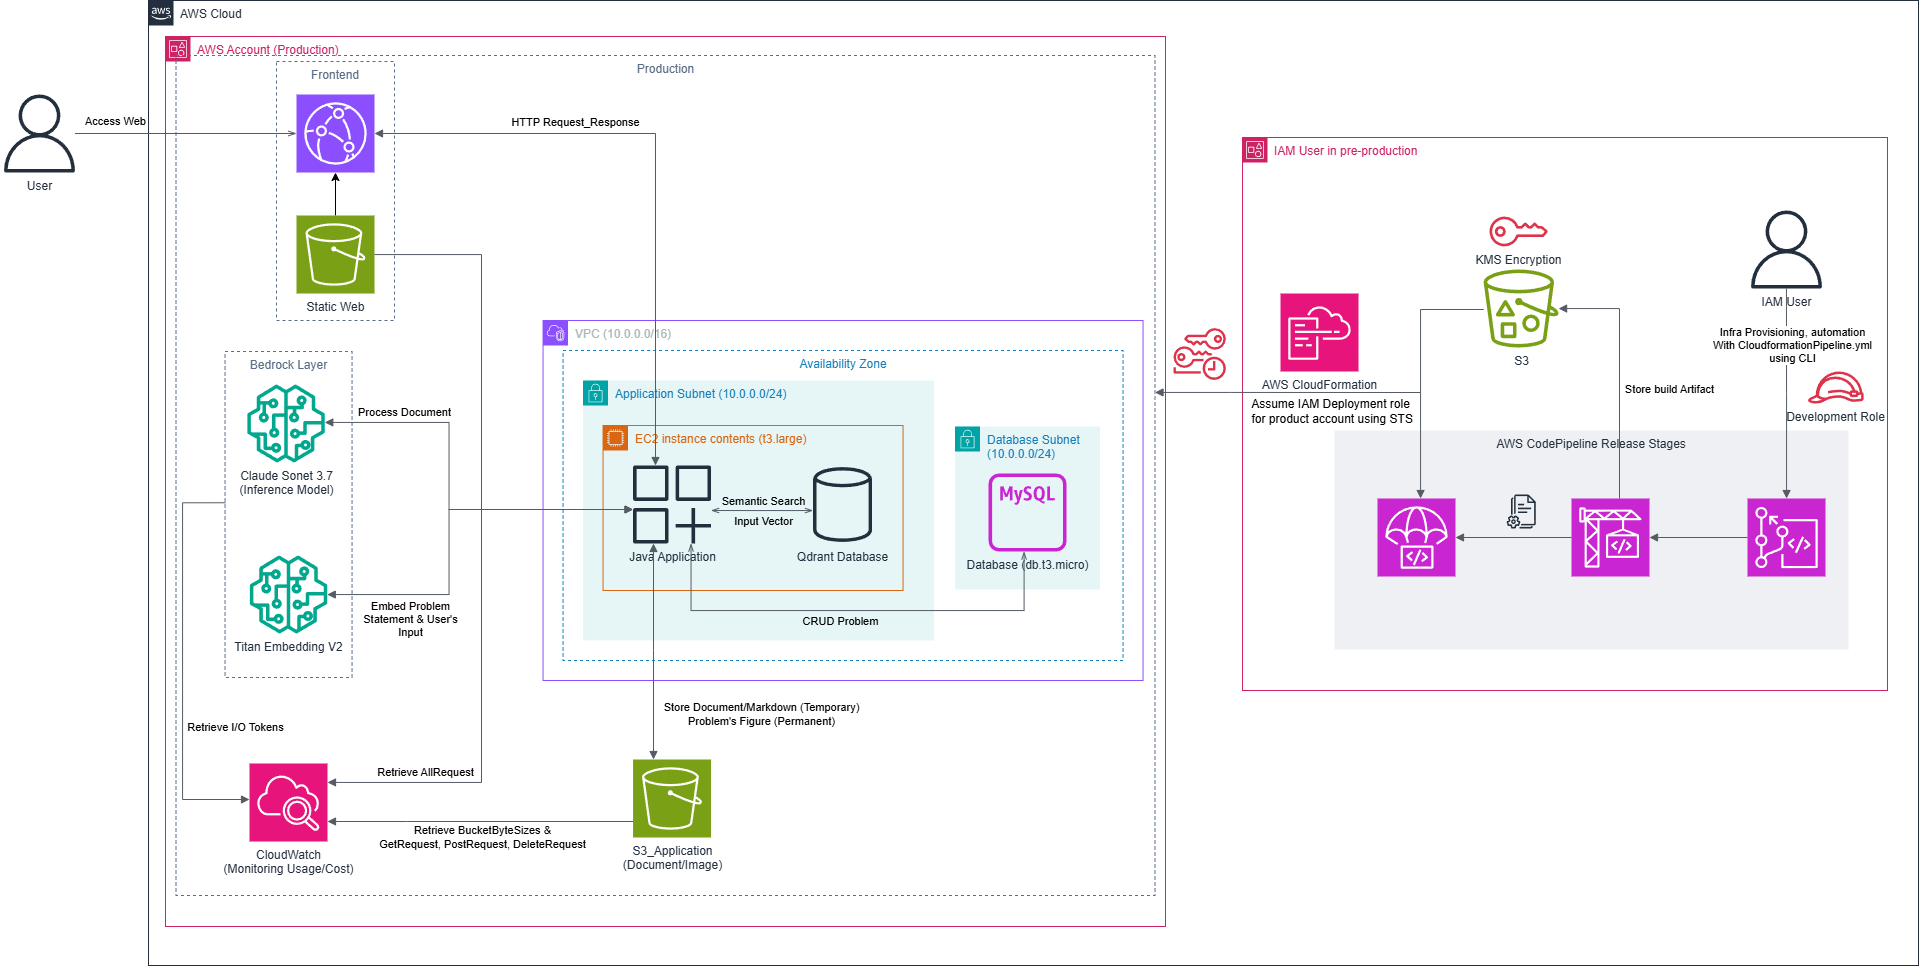
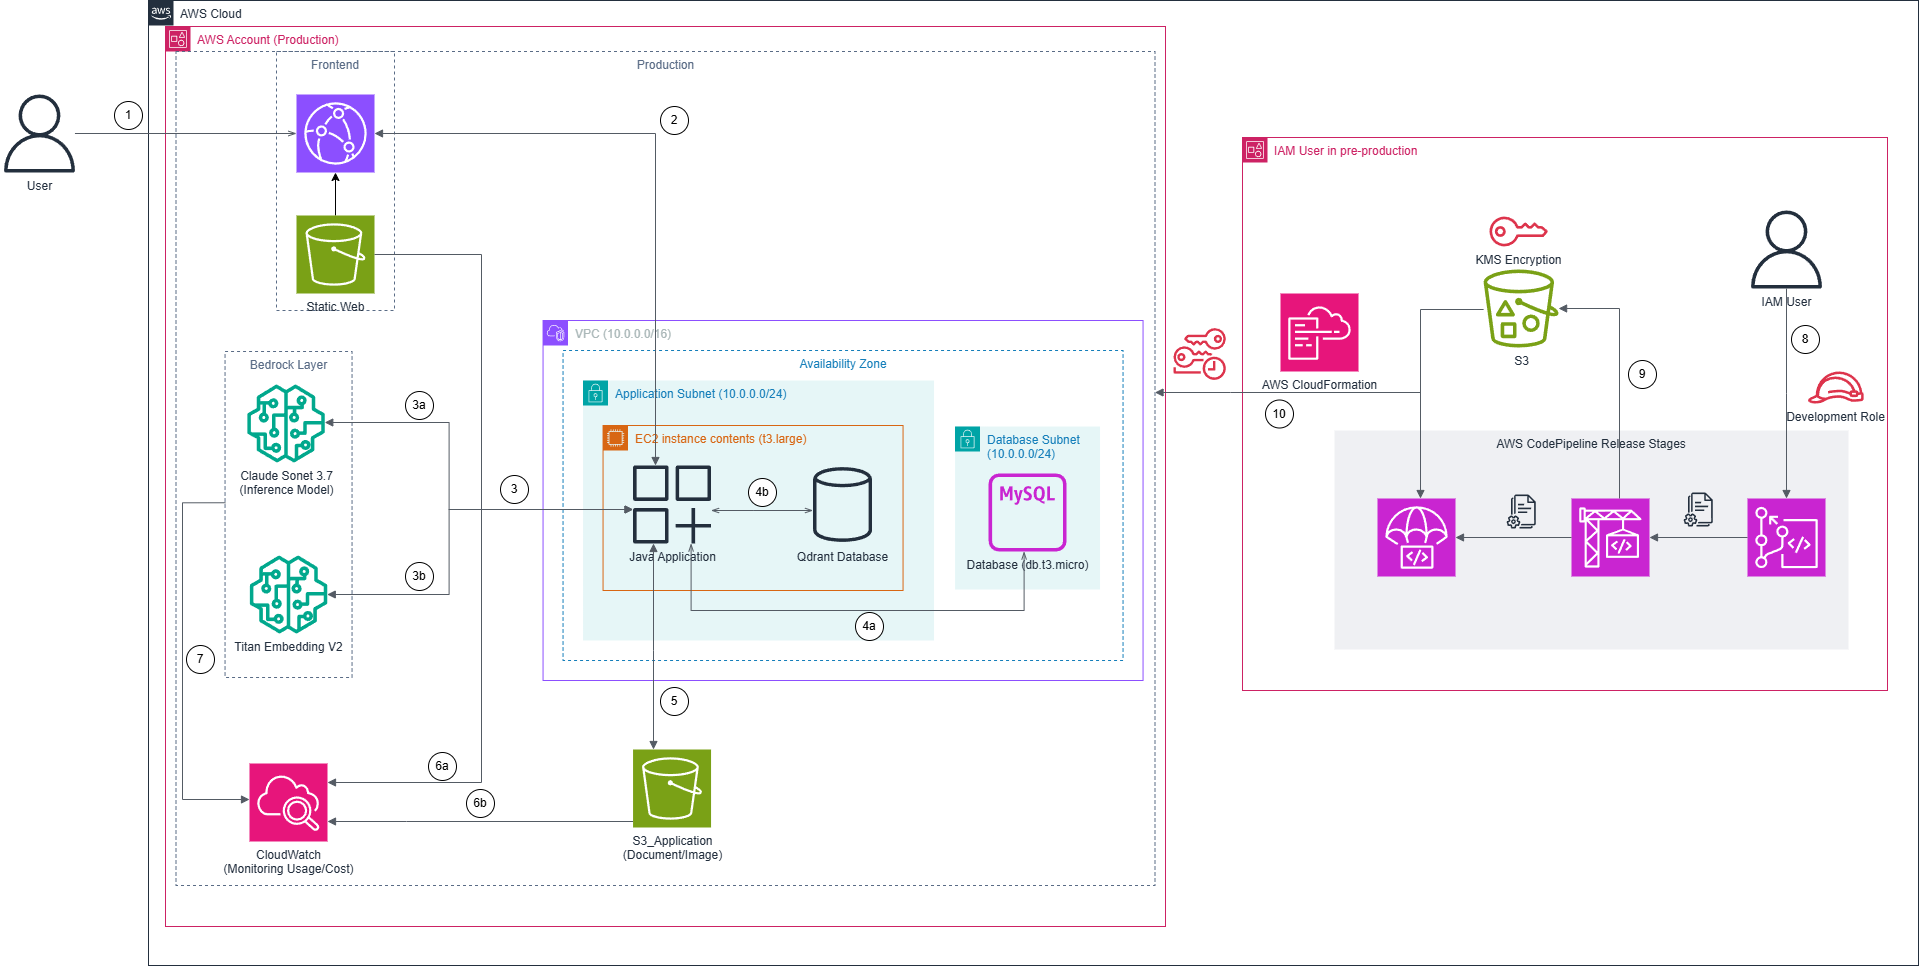
Fixed Architecture, numbered flow

diff --git a/content/2-Proposal/_index.md b/content/2-Proposal/_index.md
@@ -60,32 +60,38 @@ Provided a monitoring method, for users to view via CloudWatch on AWS, to know t
 ![Architecture Overview](/images/2-Proposal/architecture.png)
 
 ```
-1. DEVELOPER DEPLOYMENT (CI/CD PIPELINE)
-IAM User (in pre-production) → Git push → AWS CodePipeline triggered → CodeBuild Stage: 
-• Fetches source code 
-• Builds Java/.jar artifact 
-• Stores build artifact in S3 (encrypted via KMS) → CodeDeploy Stage: 
-    • Triggered by successful build 
-    • Uses CloudFormation to provision/update infrastructure 
-• Deploys new artifact from S3 to EC2 instance(s).
+1.  **User Request:** The user accesses the frontend of the application, which is a static website hosted in an S3 bucket and served globally via CloudFront for low latency.
 
-1. USER FILE SUBMISSION
-User → Accesses Static Web App (S3/CloudFront) → Uploads image or PDF → Frontend sends file (HTTPS POST) → Backend EC2 Java Application.
+2.  **API Call:** The frontend sends an HTTPS request (containing the uploaded image/PDF) to the backend Java application running on an EC2 instance within a secure VPC.
 
-1. BACKEND PROCESSING & ANALYSIS
-EC2 App → Stores raw file in S3_Application bucket. → If PDF: Use library to extract pages as individual images. → For each image: 
-• Step A (OCR): Process with OCR Model (Claude Sonnet) → Extract equation(s) as LaTeX string(s). 
-• Step B (Embedding): For each LaTeX string → Generate vector using Titan Embedding V2. 
-• Step C (Search): Query Qdrant vector DB with vector → Get list of similar problem IDs.
+3.  **AI Processing (Orchestration):** The Java application orchestrates the AI workflow.
+    * **3a. OCR Request:** The application sends the image data to the **Claude Sonnet 3.7** model in AWS Bedrock. Claude analyzes the image and returns the transcribed mathematical equation as a LaTeX string.
+    * **3b. Embedding Request:** The application sends the extracted LaTeX string to the **Titan Embedding V2** model. Titan converts the string into a numerical vector that captures its semantic meaning.
 
-1. DATA RETRIEVAL & RESPONSE
-EC2 App → Collects all similar problem IDs from Qdrant. → Queries MySQL Database with IDs → Fetches full problem details (text, solution, etc.). → Aggregates results (transcribed LaTeX + similar problems) → Sends single JSON response to frontend.
+4.  **Data Storage & Retrieval:** The application interacts with the databases.
+    * **4a. Vector Search:** The generated vector is used to query the **Qdrant Vector Database** to find the IDs of the most similar problems already in the system.
+    * **4b. Data Fetching:** The application uses the IDs from Qdrant to query the **MySQL Database** on RDS to retrieve the full details (problem statement, solution, tags) for each similar problem.
 
-1. RESULTS DISPLAY
-Frontend receives JSON response → Renders LaTeX using MathJax/KaTeX. → Displays list of similar problems fetched from MySQL. → If PDF was uploaded, results are grouped by page.
+5.  **Temporary Storage:** The initial image/PDF uploaded by the user is stored in a dedicated S3 bucket (`S3_Application`). This serves as a temporary record of the input.
 
-1. MONITORING & LOGGING
-Backend Application & AWS Services → Push all logs and performance metrics → CloudWatch. → S3 bucket access (GetRequest, PutRequest) & costs → Monitored via CloudWatch. → All AWS API calls made during the process → Logged in CloudTrail for audit.
+6.  **Monitoring & Logging:** All application activities, logs, performance metrics, and costs are sent to **AWS CloudWatch**.
+    * **6a. Application Logs:** The EC2 instance sends its logs to CloudWatch.
+    * **6b. S3 Access Logs:** S3 access events (like `PutObject`) are logged for monitoring and auditing.
+
+7.  **Bedrock API Calls:** This represents the underlying API calls made from the Java application to the Bedrock service to invoke the Claude and Titan models.
+
+### Pre-Production Workflow (Developer CI/CD)
+
+8.  **Developer Push:** An authorized **IAM User** (the developer) pushes new code to a source code repository (e.g., GitHub, AWS CodeCommit).
+
+9.  **CI/CD Pipeline Execution:** The code push triggers the **AWS CodePipeline**.
+    * **Source Stage:** Fetches the latest code.
+    * **Build Stage (CodeBuild):** Compiles the Java code, runs tests, and packages the application into a `.jar` artifact. This artifact is then stored securely in an S3 bucket, encrypted using a **KMS key**.
+    * **Deploy Stage:** The pipeline proceeds to the deployment stage.
+
+10. **Automated Deployment:**
+    * **AWS CloudFormation** is used to provision or update the entire infrastructure stack (VPC, EC2, RDS, etc.) based on templates. This ensures consistent and repeatable deployments.
+    * The new application artifact from the S3 bucket is deployed to the EC2 instance(s).
 ```
 
 ### Asssumetion
